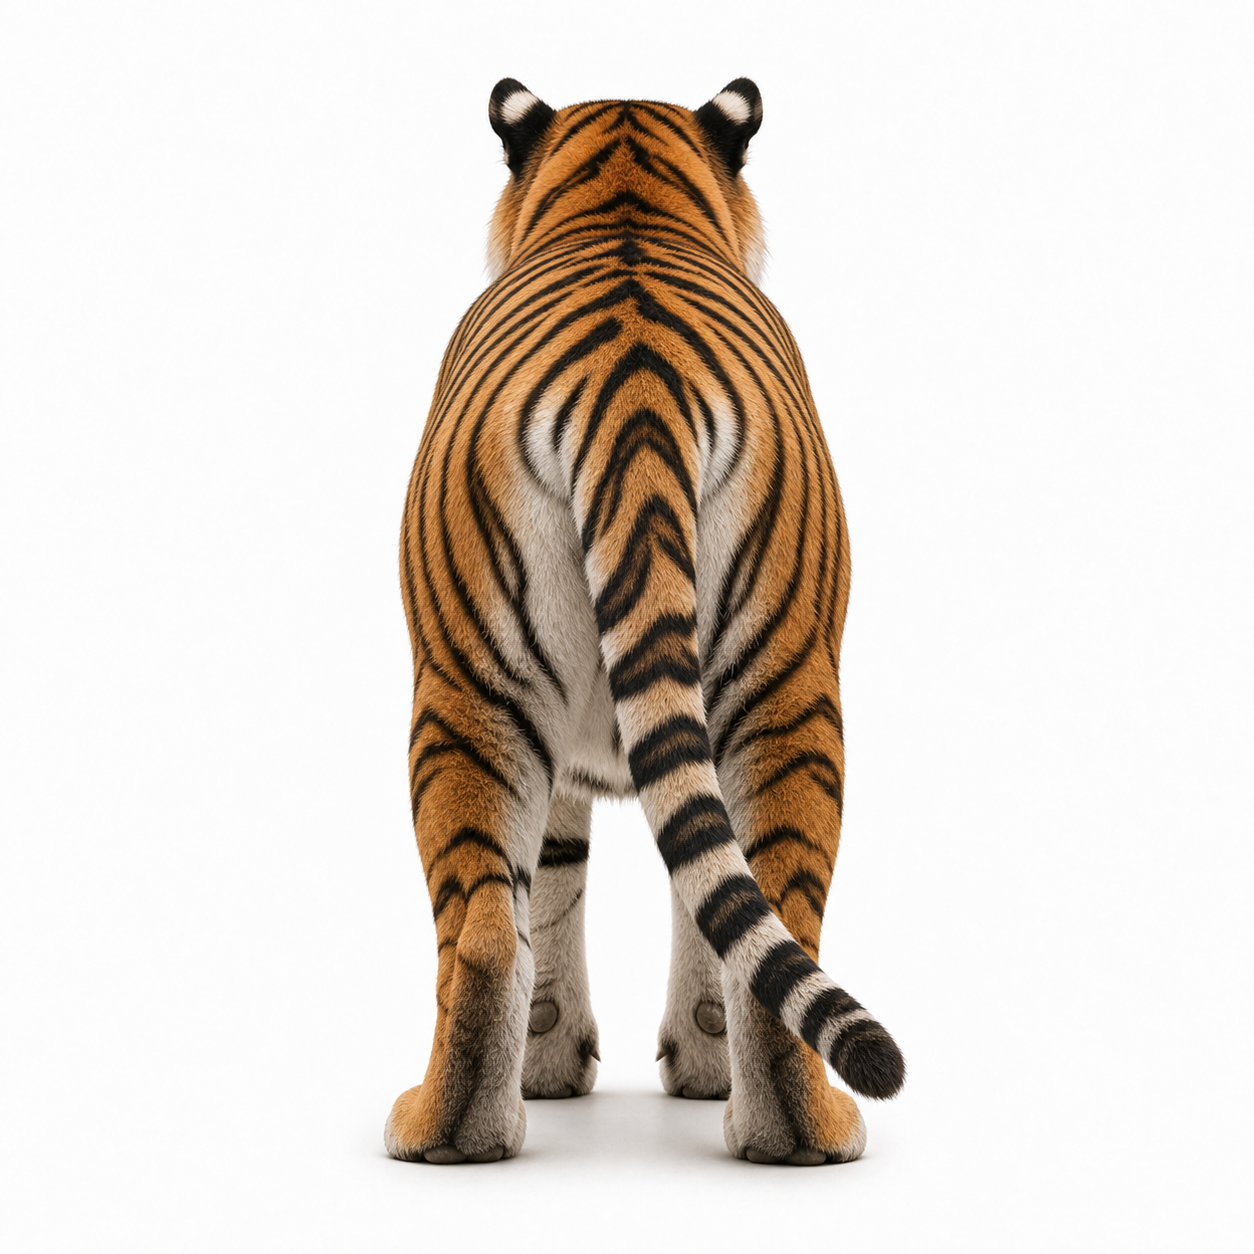
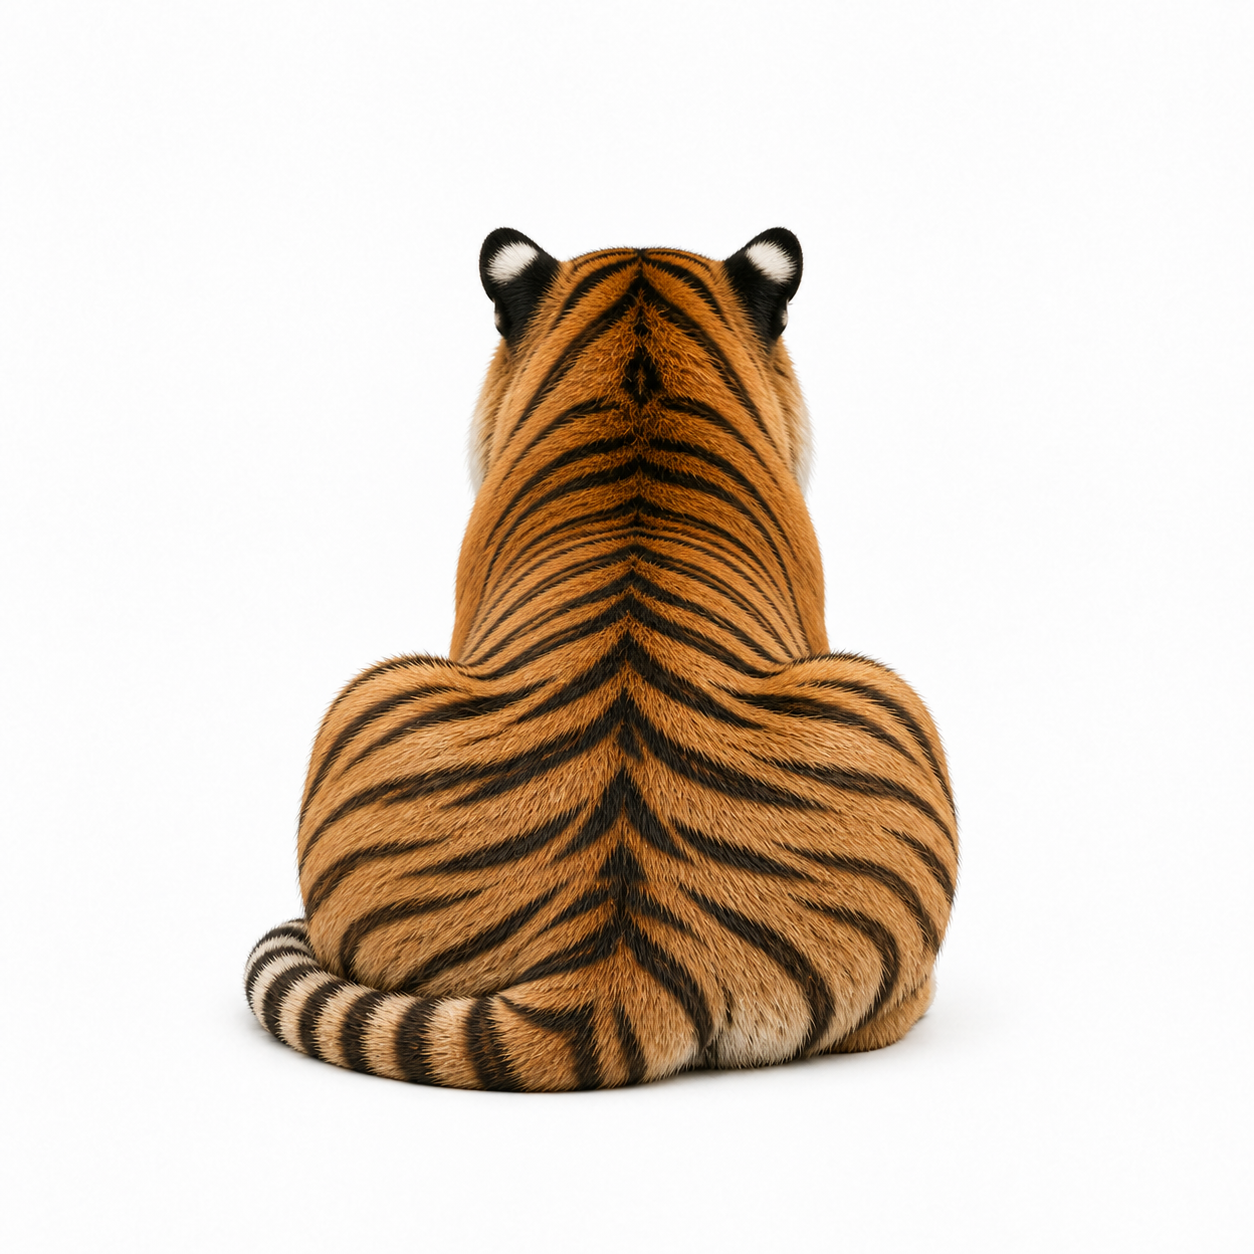
Refine tiger loaf easter egg

diff --git a/site/styles.css b/site/styles.css
@@ -66,19 +66,27 @@ canvas {
 }
 
 .stage.is-tiger-lunge canvas {
-  animation: tiger-lunge 360ms cubic-bezier(0.18, 0.86, 0.28, 1) both;
+  animation: tiger-lunge 1400ms cubic-bezier(0.16, 0.86, 0.16, 1) both;
 }
 
 @keyframes tiger-lunge {
   0% {
-    transform: scale(0.96);
+    filter: brightness(1);
+    transform: scale(0.94);
   }
 
-  68% {
-    transform: scale(1.025);
+  36% {
+    filter: brightness(1.02);
+    transform: scale(1.18);
+  }
+
+  72% {
+    filter: brightness(0.96);
+    transform: scale(2.15);
   }
 
   100% {
-    transform: scale(1);
+    filter: brightness(0.82);
+    transform: scale(3.35);
   }
 }

diff --git a/site/app.js b/site/app.js
@@ -88,8 +88,8 @@ const animals = [
     image: "/assets/animals/tiger/base.png",
     alt: "Tiger from behind",
     hitZones: [
-      { x: 0.42, y: 0.5, rx: 0.12, ry: 0.12 },
-      { x: 0.58, y: 0.5, rx: 0.12, ry: 0.12 },
+      { x: 0.4, y: 0.63, rx: 0.14, ry: 0.13 },
+      { x: 0.6, y: 0.63, rx: 0.14, ry: 0.13 },
     ],
     special: "tiger",
     reactions: {
@@ -172,7 +172,7 @@ const app = new Application();
 const touchesToAdvance = 20;
 const defaultPrompt = "Tap butt 20 times. Another butt appears.";
 const tigerPrompts = {
-  back: "WARNING: This butt bites.",
+  back: "WARNING: Do not touch the tiger loaf.",
   glare: "You were warned.",
   roar: "ROAR.",
 };
@@ -457,7 +457,7 @@ async function handleTigerTouch() {
   if (touchCount >= 5) {
     pendingAdvance = true;
     await setTigerReaction("roar");
-    window.setTimeout(advanceAnimal, 1200);
+    window.setTimeout(advanceAnimal, 1500);
   }
 }
 